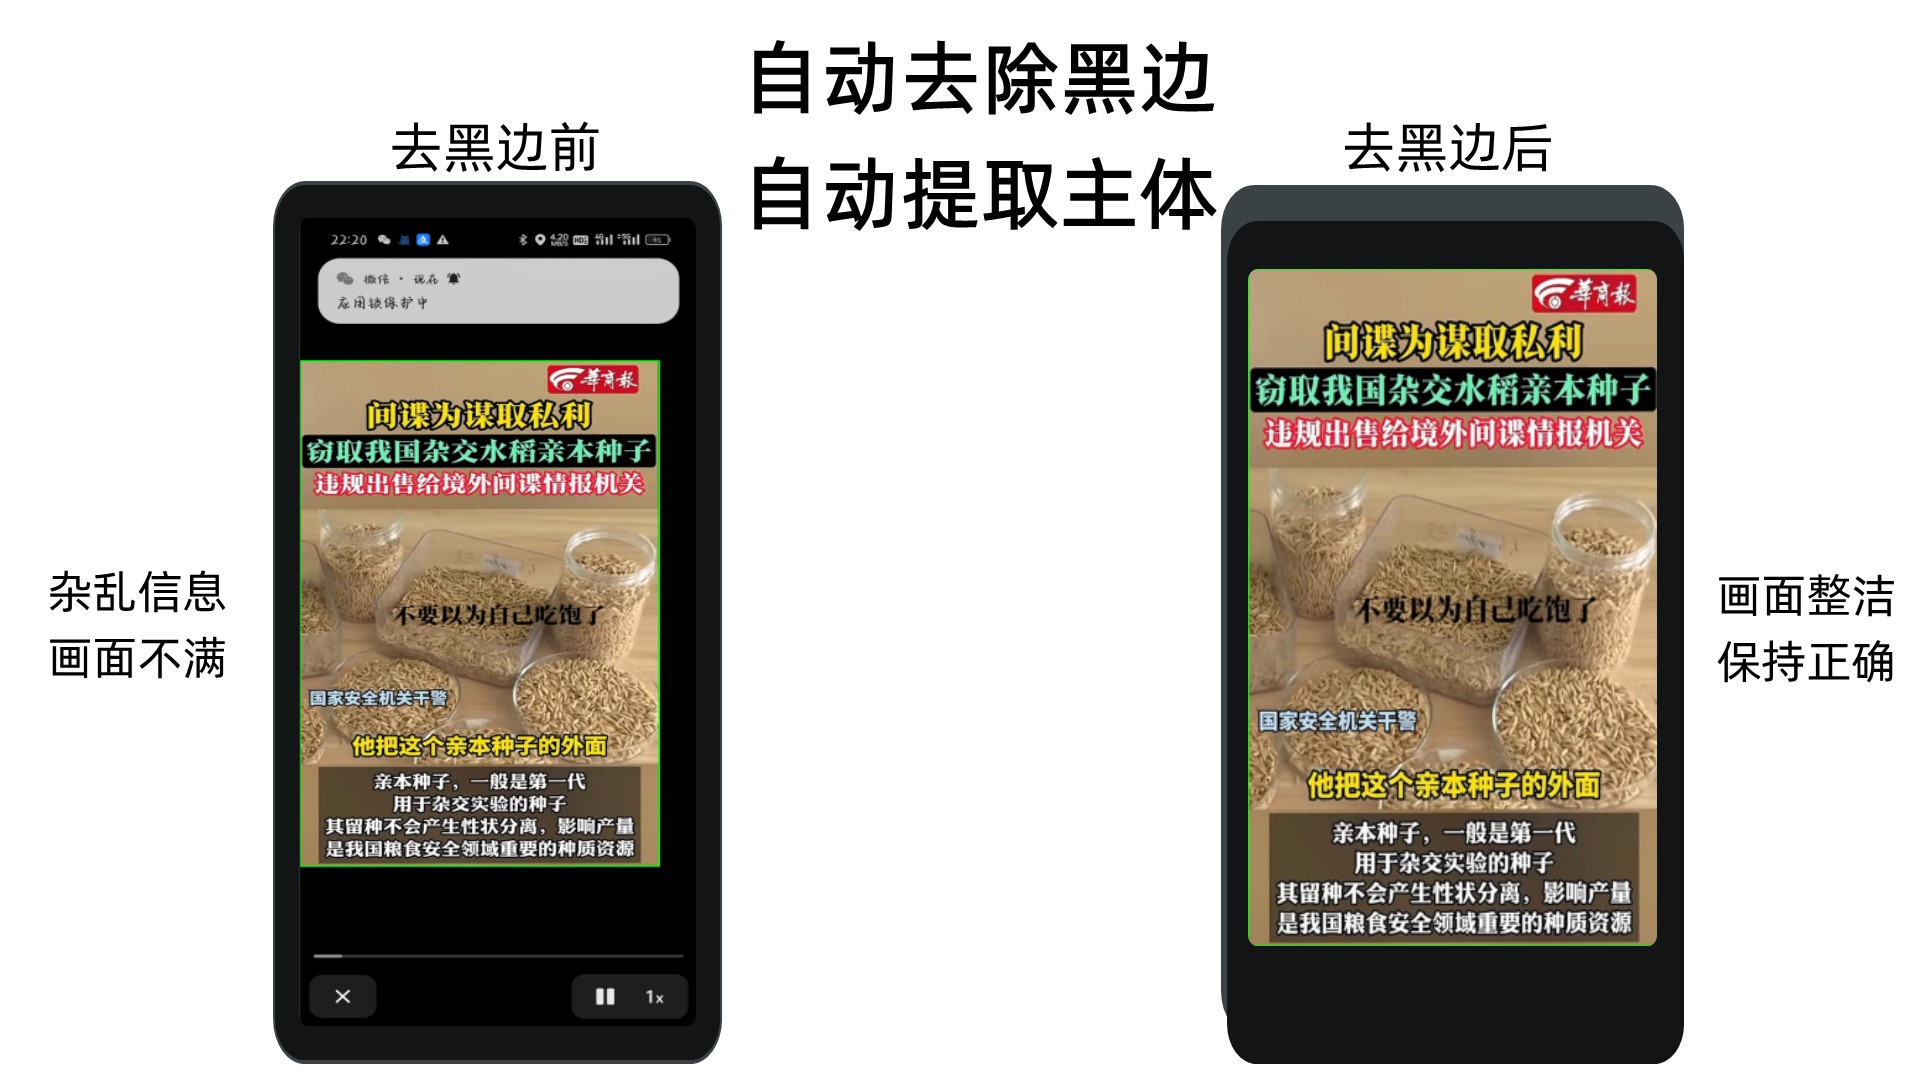
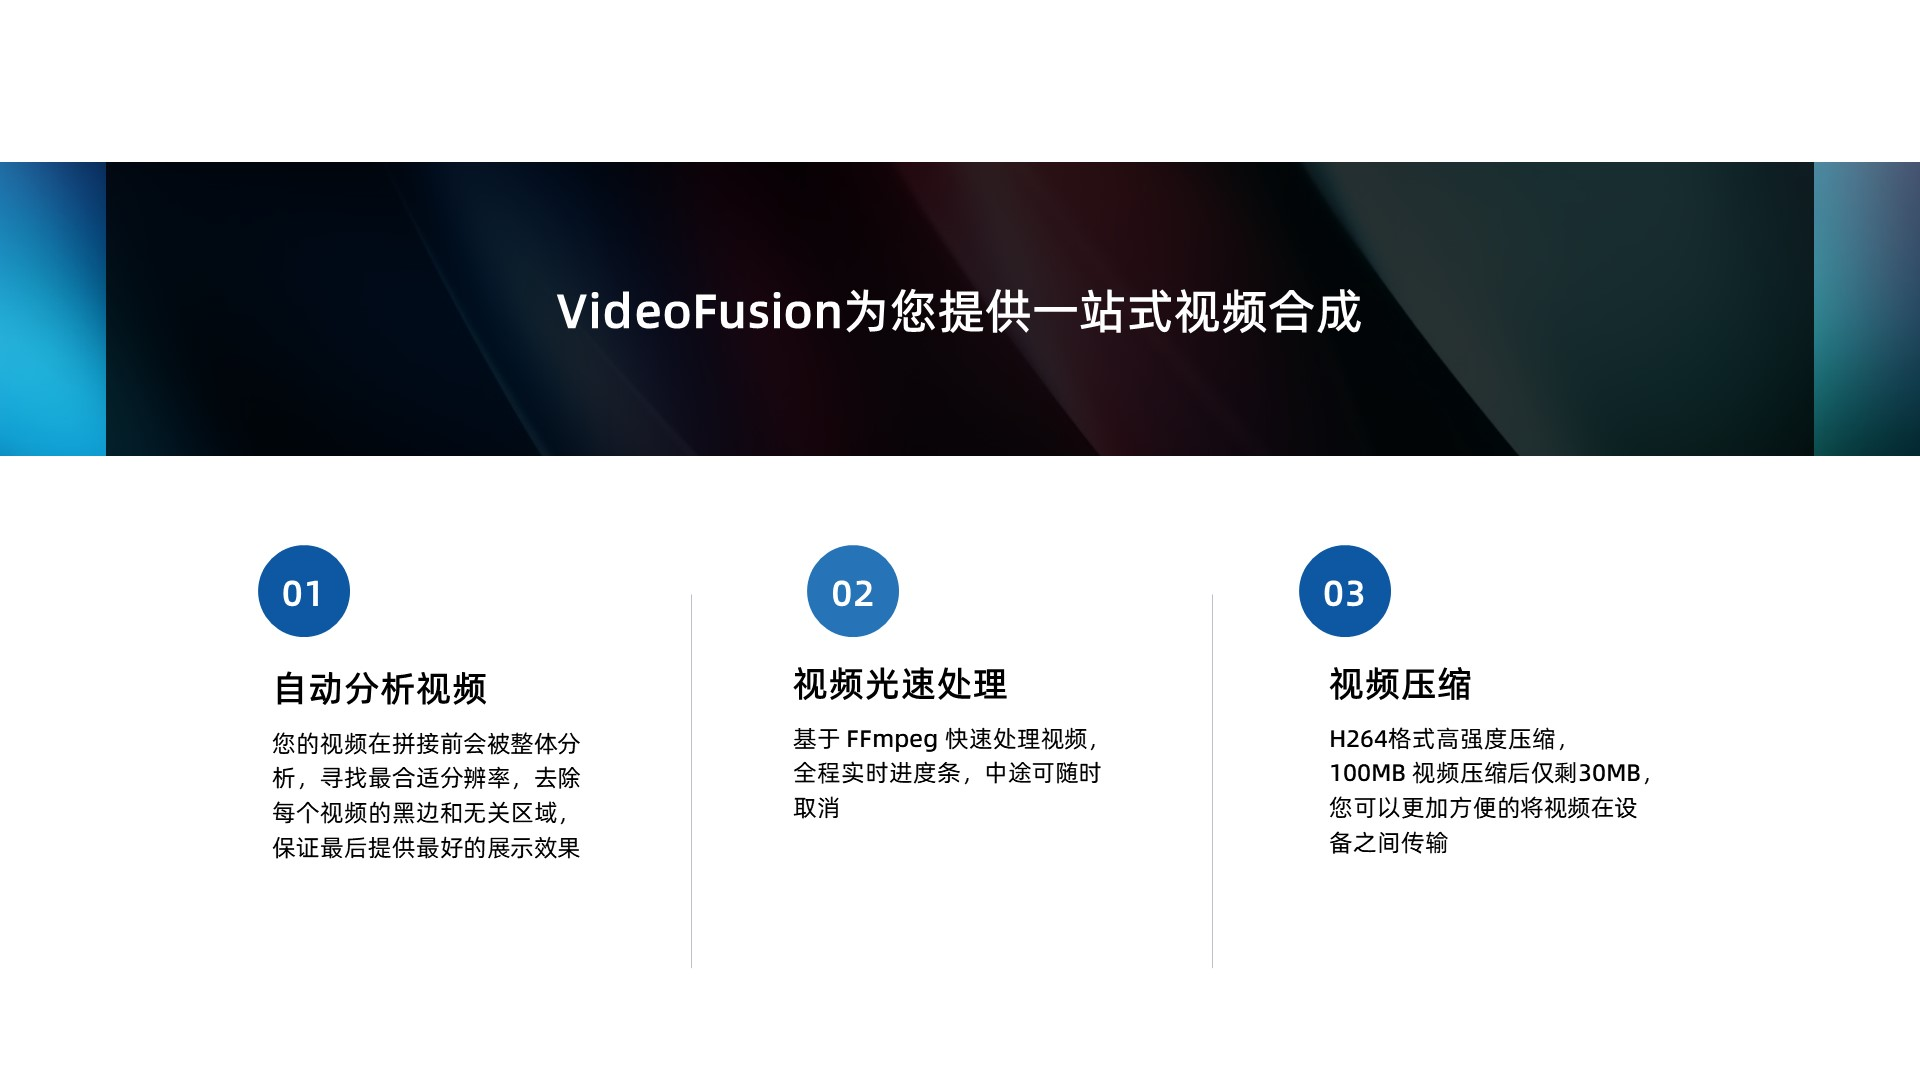
Docs: 完善了README,现在有了更加高端和正式的说明

diff --git a/README.md b/README.md
@@ -1,23 +1,25 @@
 <h1 align="center">
-    VideoMosaic
+    VideoFusion
 </h1>
-<p align="center">一个实用的小视频拼接软件<p>
+<p align="center">一站式短视频拼接软件<p>
 <p align="center">
     无依赖,点击即用,自动去黑边,自动帧同步,自动调整分辨率,批量变更视频为横屏/竖屏
 </p>
 
-![2](./README.assets/2.jpg)
-
 ![1](./README.assets/1.jpg)
+
+![2](./README.assets/2.jpg)
 
 ![3](./README.assets/3.jpg)
 
 
+
+
 ## 软件介绍
 
-如果你有大量小视频(~~老司机懂得都懂~~)，他们之间的分辨率不一致，有的是横屏，有的是竖屏，有的有黑边，有的有 Logo ，有的有字幕，有的有动态图标，甚至有的时候视频的顺序都不对，你想要将他们拼接在一起，但是又不想花费大量时间使用 Pr 或者其他专业剪辑软件去调整每一个视频，修改他们的帧率，分辨率那么这个软件就是为你而生的
+该软件主要用于拼接大量视频分辨率，视频帧率，视频格式不一致，视频有噪点，视频音量需要批量调整，视频有复杂黑边等各种复杂拼接情况，大量此类视频通过 Pr 或者达芬奇等专业软件非常耗时耗力
 
-你可以方便的修改他们的顺序，统一视频是横屏还是竖屏，把视频拉到同一个帧率，您不需要掌握FFmpeg或者其他高端的命令，仅仅是使用 VideoMosaic，他会帮你完成这一切
+通过分析视频智能提高视频质量，去除视频黑边，旋转视频并将大量视频拼接，将每个视频画面尽可能的在保持横宽比的情况下缩放到最大画面，支持多种格式，支持自定义压缩方式，自定义补帧方式以及缩放算法等，软件内置大量可自定义内容
 
 ## 软件功能
 
@@ -26,8 +28,8 @@
 3. **自动计算最佳分辨率**，软件会遍历所有视频计算出最适合所有视频的分辨率最后将他们缩放到该分辨率，确保所有的视频都能有最好的观感
 4. **视频质量提升**，软件在设置页面内置包括诸如"视频降噪"，"视频去抖动"，"音量自动平衡"等功能，可以帮您一键提升您的视频质量(如果需要更好的效果请使用专业补帧和超分工具)
 5. **便捷的文件排序工具**，自动根据文件名中的数字、日期、重命名后缀例如(3)、进行排序，同时还能快速查看视频内容，同时封面自动跳过黑色画面，保证每一个视频的封面都清晰可见，支持旋转，支持拖拽排序，导入导出等操作
-6. **支持市面上大部分视频格式**，同时支持使用dll的方式扩展OpenCv的编码器
-7. **实时进度条以及彩色输出框**，精准显示当前程序状态获取程序日志
+6. **支持市面上大部分视频格式**，同时支持使用dll的方式扩展OpenCV的编码器
+7. **实时进度条以及彩色输出框**，精准显示当前程序状态获取程序日志，所有日志本地留档，可以自行前往目录下寻找 log.log 进行查看
 
 ## 界面展示
 
@@ -62,10 +64,10 @@
 pip install -r requirements.txt
 ```
 
-然后运行项目根目录下的 `video_mosaic.py` 文件
+然后运行项目根目录下的 `video_fusion.py` 文件
 
 ## 额外说明
 
-- 该软件的目的主要是为了拼接小视频，对于大于20分钟的视频会出现运行缓慢效果不佳的情况，对于大视频的拼接请使用专业的视频编辑软件
+- 该软件支持 Window10 64bit 以及 Window11 64bit，其余 Window 版本未经过测试，不保证稳定运行
 - 该软件永久免费，如果您在其他地方付费下载到了该软件请马上退款止损
 - 如果您使用出现了问题或者对软件的建议请您在该页面提出 issue
